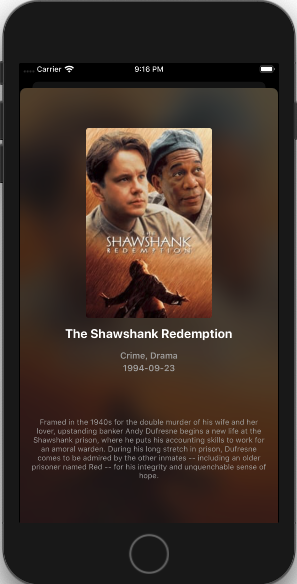
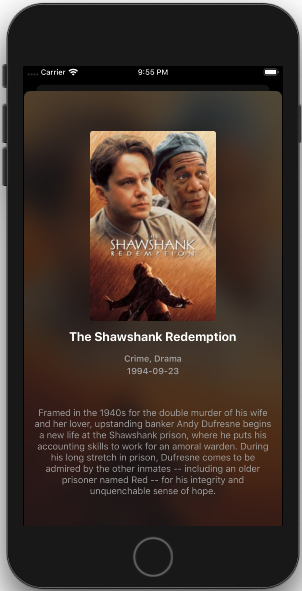
develop Refactor details view to increase font of overview.
- Changed screeshot.

diff --git a/kobe-ios-challenge/Application/Modules/MovieDetails/MovieDetailsViewController.swift b/kobe-ios-challenge/Application/Modules/MovieDetails/MovieDetailsViewController.swift
@@ -41,7 +41,7 @@ class MovieDetailsViewController: UIViewController {
         self.addALabel(distanceToTop: imageHeight + 134, height: 20, text: movie?.releaseDate ?? String(),
                        size: 14, weight: .semibold, color: .lightGray)
         self.addALabel(distanceToTop: imageHeight + 154, distanceToBottom: 16, text: movie?.overview ?? String(),
-                       size: 12, weight: .regular, color: .lightGray)
+                       size: 15, weight: .regular, color: .lightGray)
        
     }
     
